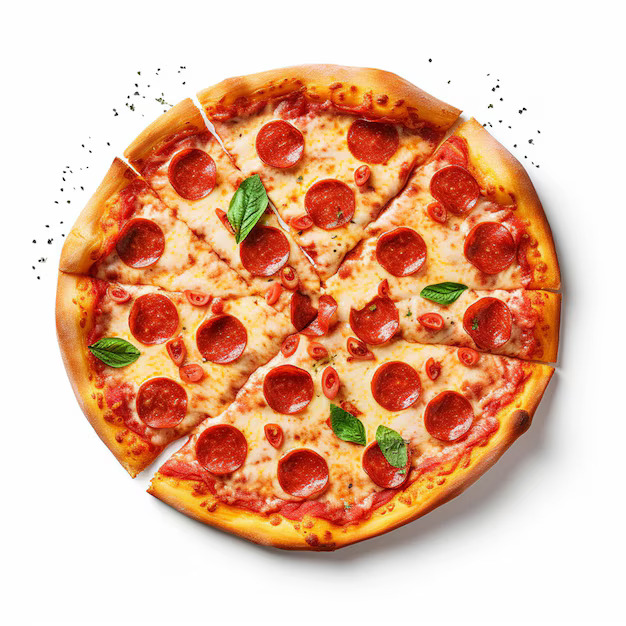
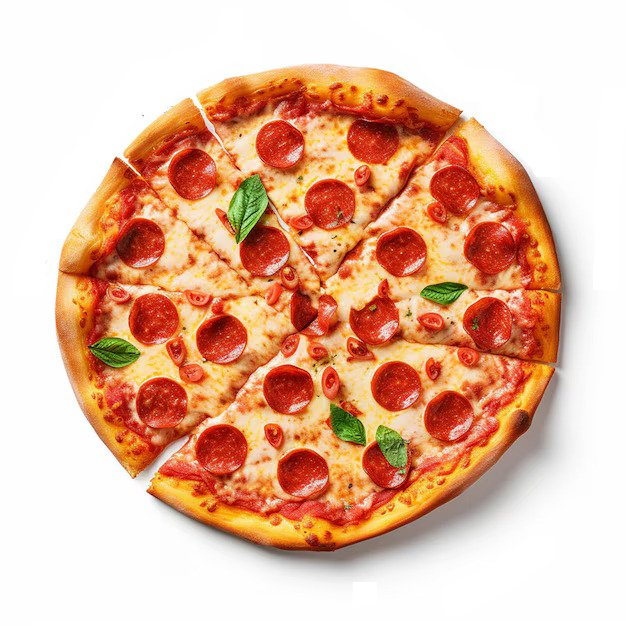
diversos pequenos ajustes em estilos para deixar paginaProduto e paginaCarrinho apresentáveis

diff --git a/paginas/paginaProduto.html b/paginas/paginaProduto.html
@@ -53,10 +53,10 @@
                     <!--p>Quantidade:</p-->
                     <div class="set-quantidade">
                         <button id="menos-button">–</button>
-                        <p class="quantidade-selecionada">
+                        <span class="quantidade-selecionada">
                             <!--input id="valor-adicionar" value=0>
                         <span id='medida-produto'></span-->
-                        </p>
+                        </span>
                         <button id="mais-button">+</button>
                     </div>
                     <input id="adicionar" class="adicionar-carrinho" type="button" value="Adicionar">
@@ -66,7 +66,7 @@
                         <!-- FIXME MOSTRAR APENAS SE HOUVER QUANTIDADE NO CARRINHO -->
                         <div class="texto-quantidade-carrinho">
                             <p>Quantidade no carrinho:</p>
-                            <p id="quantidadeProduto"></p>
+                            <span id="quantidadeProduto"></span>
                         </div>
                         <div class="remover">
                             <span class="material-symbols-outlined">delete</span>

diff --git a/estilos/paginaCarrinho.css b/estilos/paginaCarrinho.css
@@ -48,11 +48,11 @@
 }
 
 .descricao-produto {
-    flex: 1;
+    flex: 2;
 }
 
 .divs {
-    flex: 2;
+    flex: 1;
 }
 
 .quantidade-lixo {
@@ -254,13 +254,19 @@
     border-radius: 12px;
 }
 
+/*
 .selecionador-quantidade input {
     background: transparent;
 
     cursor: pointer;
 }
+*/
 
-/*
+.selecionador-quantidade-div {
+    color: rgba(0, 0, 0, 0.5);
+    cursor: pointer;
+}
+
 .btMercados {
     background-color: green;
     color: white;
@@ -280,15 +286,8 @@
     border-radius: 0px;
     margin: 0px;
 }
-*/
 
-.selecionador-quantidade-div {
-    color: rgba(0, 0, 0, 0.5);
-
-    cursor: pointer;
-}
-
-
+/*
 .inferior-direita {
     display: flex;
     flex-direction: column;
@@ -306,6 +305,7 @@
 .inferior-direita {
     font-size: 14px;
 }
+*/
 
 .mercados-preco {
     font-size: 16px;

diff --git a/estilos/paginaProduto.css b/estilos/paginaProduto.css
@@ -198,7 +198,7 @@ body {
     transition: 0.3s;
 }
 
-.quantidade-selecionada,
+/*.quantidade-selecionada, <-- sem flex para manter texto centralizado */
 .texto-quantidade-carrinho {
     display: flex;
 }
@@ -219,7 +219,7 @@ body {
 }
 
 .set-quantidade span {
-    width: 30px;
+    width: 50px;
 
     text-align: center;
 }
